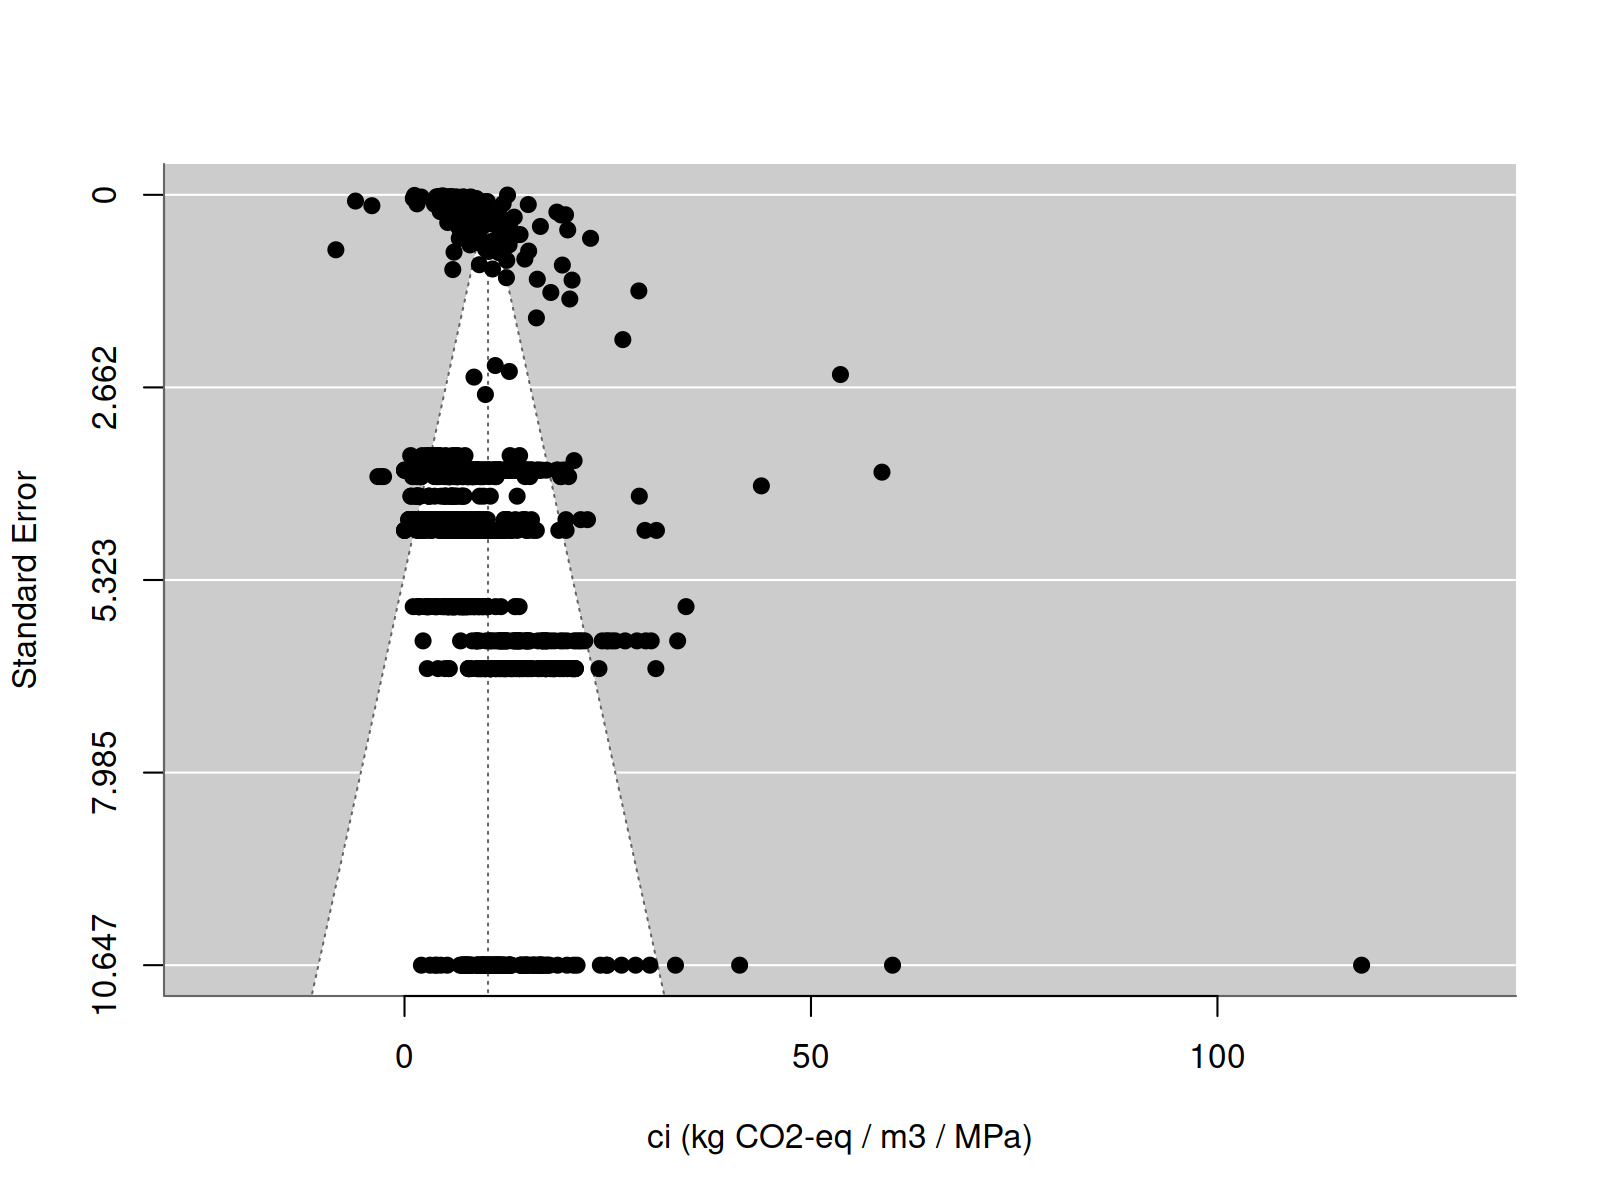
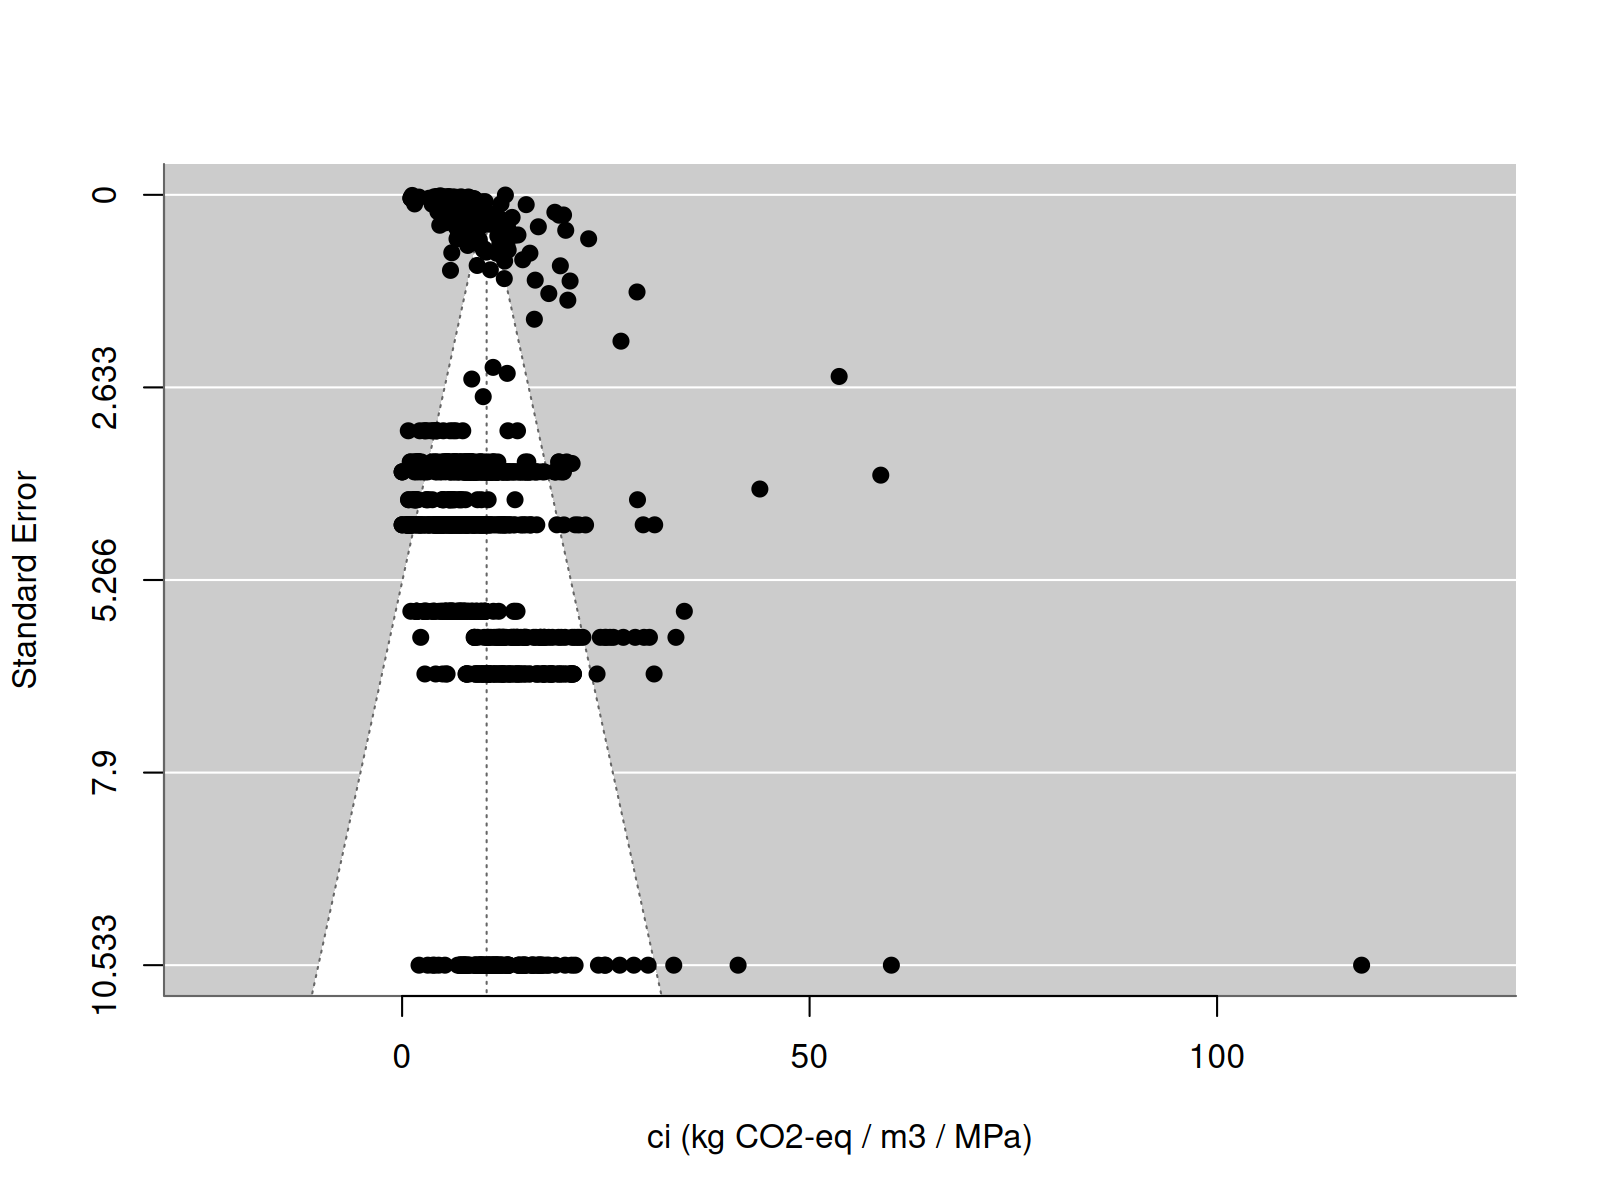
Metanalise v5: resultados com os cenarios sem e com desconto de CO2 (#287)
Claude-Session: https://claude.ai/code/session_0141gSScbY4mT4f2wNP7kRTx

diff --git a/metanalise/DECISOES_METANALISE.md b/metanalise/DECISOES_METANALISE.md
@@ -97,6 +97,8 @@ Cada entrada diz se foi verificada por mim no PDF (`pessoal`) ou é leitura do s
 | F7 | 2026-10-07 | **[IMPLEMENTAÇÃO — por confirmar]** Painel: barra fixa com dois grupos — «Base do ligante» e «CO₂ dos artigos» (Sem desconto / Com desconto, `?co2=com`); o cenário troca o CO2 em todos os gráficos que leem `currentData()`. Exportador: 7.º campo = CO2 com desconto (null = sem desconto), 8.º = 1 quando não há bruto. | aplicada |
 | F8 | 2026-10-07 | A pergunta aberta 1 (créditos: bruto vs líquido) fica **resolvida pela F1**: os dois cenários coexistem; o «sem desconto» é a análise principal. **[por confirmar]** | — |
 
+**Resultados (2026-10-07, modelo v5):** principal (sem desconto) μ = 10,37 kg CO2-eq/(m3·MPa) (IC 95% 9,69–11,05; k = 1.172, 308 estudos); **com desconto 10,14** (9,44–10,84); só pares com bruto publicado 10,28 (k = 1.127). O desconto baixa a média em ~2% — o efeito concentra-se em poucos estudos (BATUECAS, MOMOTAZ, GAO, RØNNING, HUANG 3251). Geopolímero passa de 3,1 para 4,2 com o bruto da BATUECAS (antes negativo).
+
 ## C. Pendências que não bloqueiam a análise
 
 **Perguntas abertas à Kiê (2026-10-04, revarredura):**
